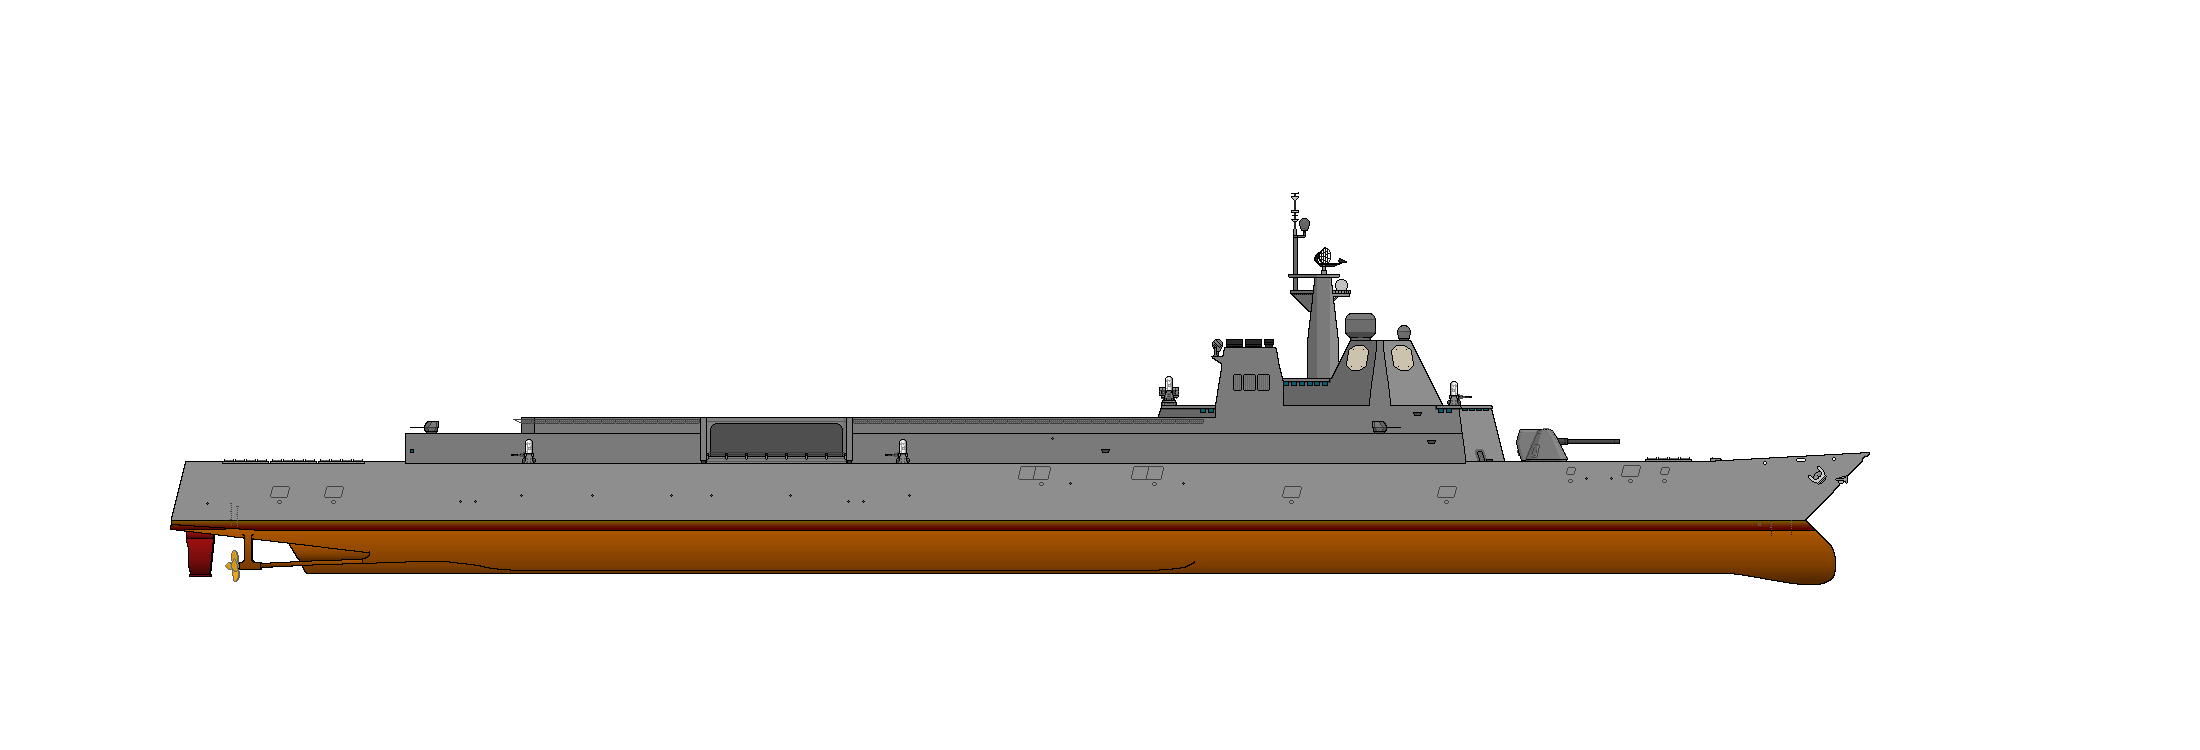
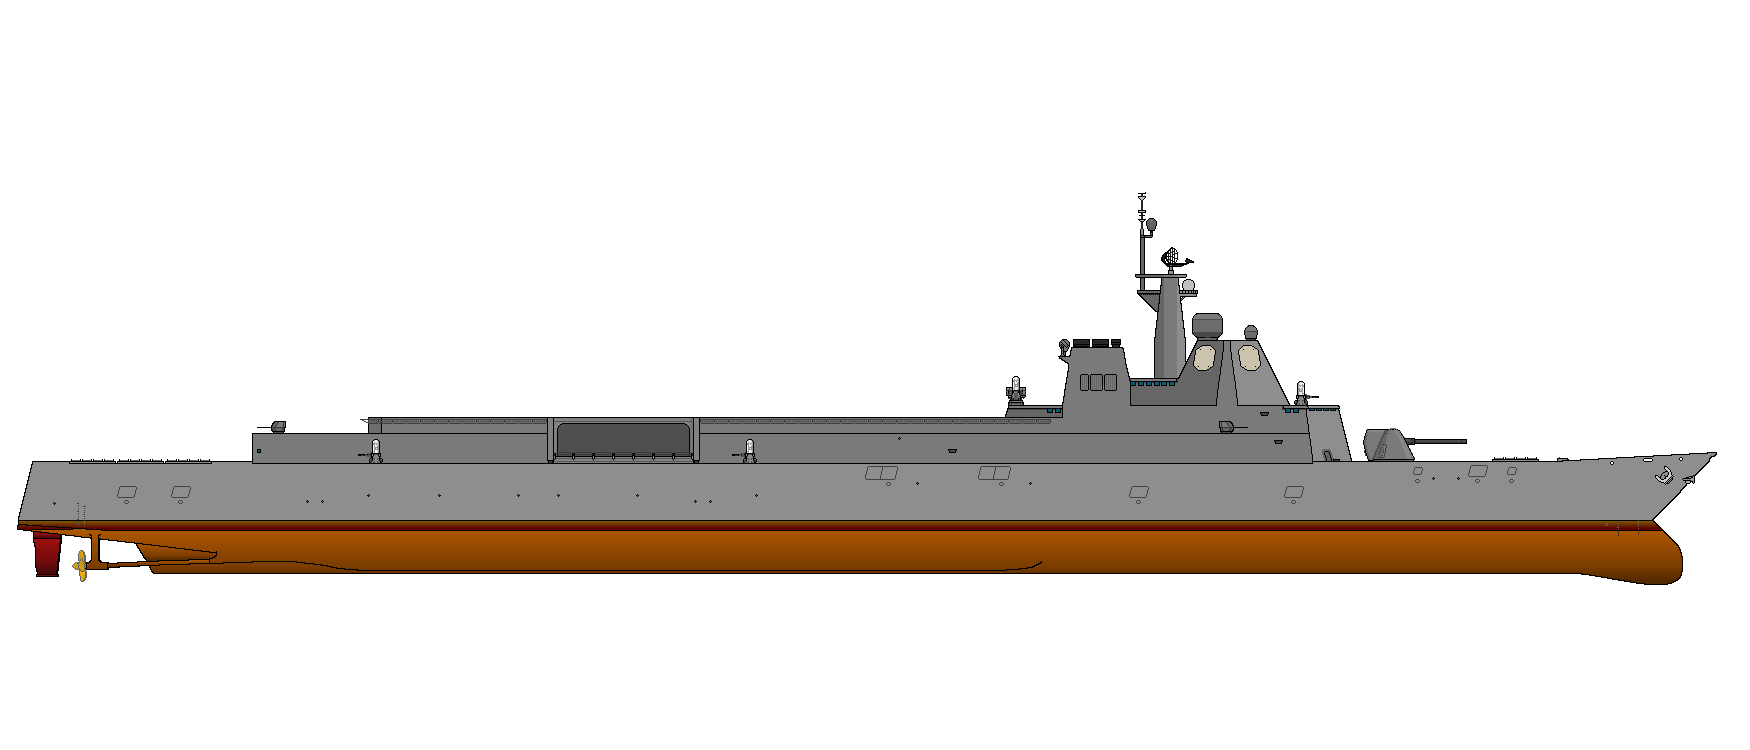
Add files via upload

diff --git a/MWT_NEQ_Ship.html b/MWT_NEQ_Ship.html
@@ -144,6 +144,95 @@ function includeHTML() {
 
 <Table width=1820 cellpadding=0 border=1 cellspacing=0>
 <TR>
+	<TH style="width:1820px; color:#EFEFEF; font-size:22px; font-family:Calibri;" colspan=12>Battles-class</TH>
+</TR>
+<TR>
+	<TH style="width:1820px; background-color:#00007F;" colspan=12><img src=NEQ_Ship_Battles.png></TH>
+</TR>
+<TR>
+	<TD style="width:225px;; color:#EFEFEF; font-size:16px; font-family:Courier;"><b>CLASS NAME:</TD>
+	<TD style="width:400px;; color:#F0F0F0; font-size:14px; font-family:Courier;">Battles-class</TD>
+
+	<TD style="width:225px;; color:#EFEFEF; font-size:16px; font-family:Courier;"><b>SHIPS IN CLASS:</TD>
+	<TD style="width:1250px; color:#F0F0F0; font-size:14px; font-family:Courier;" colspan=5>Canternooga Springs (LHVA-11), Carousel Island (LHVA-12) (mothballed, 2042 C.S.), Gloom Mountain (LHVA-14) (cancelled at 65% completion)</TD>
+</TR>
+<TR>
+	<TD style="width:225px;; color:#EFEFEF; font-size:16px; font-family:Courier;"><b>SHIP TYPE:</TD>
+    <TD style="width:400px;; color:#F0F0F0; font-size:14px; font-family:Courier;">Landing ship, Helicopter/VTOL, Assault</TD>
+
+	<TD style="width:225px;; color:#EFEFEF; font-size:16px; font-family:Courier;"><b>ENGINES:</TD>
+	<TD style="width:400px;; color:#F0F0F0; font-size:14px; font-family:Courier;">12 Canterlogic Crystal Fusion Engines, 4 Bathhurst Gas Turbines</TD>
+
+	<TD style="width:225px;; color:#EFEFEF; font-size:16px; font-family:Courier;"><b>SCREWS:</TD>
+	<TD style="width:400px;; color:#F0F0F0; font-size:14px; font-family:Courier;">4</TD>
+
+	<TD style="width:225px;; color:#EFEFEF; font-size:16px; font-family:Courier;"><b>SPEED:</TD>
+	<TD style="width:400px;; color:#F0F0F0; font-size:14px; font-family:Courier;">36kts</TD>
+
+</TR>
+<TR>
+	<TD style="width:225px;; color:#EFEFEF; font-size:16px; font-family:Courier;"><b>GUN ARMAMENT:</TD>
+	<TD style="width:400px;; color:#F0F0F0; font-size:14px; font-family:Courier;">3 x 1 127mm Defensive Gun System</TD>
+
+	<TD style="width:225px;; color:#EFEFEF; font-size:16px; font-family:Courier;"><b>MISSILE ARMAMENT:</TD>
+	<TD style="width:400px;; color:#F0F0F0; font-size:14px; font-family:Courier;"><I>None</TD>
+
+	<TD style="width:225px;; color:#EFEFEF; font-size:16px; font-family:Courier;"><b>DEFENSIVE ARMAMENT:</TD>
+	<TD style="width:400px;; color:#F0F0F0; font-size:14px; font-family:Courier;">4 x 25mm Phalanx CIWS<BR>8 x RIM-16 SeaRAM<BR>2 x ODIN Laser Defense System</TD>
+
+	<TD style="width:225px;; color:#EFEFEF; font-size:16px; font-family:Courier;"><b>MACHINE GUNS:</TD>
+	<TD style="width:400px;; color:#F0F0F0; font-size:14px; font-family:Courier;">4 x 1 57mm Brushfire</TD>
+</TR>
+<TR>
+	<TD style="width:225px;; color:#EFEFEF; font-size:16px; font-family:Courier;"><b>ACTIVE COUNTERMEASURES:</TD>
+	<TD style="width:400px;; color:#F0F0F0; font-size:14px; font-family:Courier;">5 x Chaff Dispensers, 4 x Heat-Seeking Countermeasure Dispensers</TD>
+
+	<TD style="width:225px;; color:#EFEFEF; font-size:16px; font-family:Courier;"><b>PASSIVE COUNTERMEASURES:</TD>
+	<TD style="width:400px;; color:#F0F0F0; font-size:14px; font-family:Courier;">2 x Radio-Intercept Beam Static Generators, 1 x ECCM Coordinator</TD>
+
+	<TD style="width:225px;; color:#EFEFEF; font-size:16px; font-family:Courier;"><b>AIRCRAFT COMPLIMENT:</TD>
+	<TD style="width:400px;; color:#F0F0F0; font-size:14px; font-family:Courier;">Hangar Deck for up to 24 VTOL or Helicopters</TD>
+
+	<TD style="width:225px;; color:#EFEFEF; font-size:16px; font-family:Courier;"><b>FLIGHT CREW:</TD>
+	<TD style="width:400px;; color:#F0F0F0; font-size:14px; font-family:Courier;"><I>Varies</TD>
+
+</TR>
+<TR>
+	<TD style="width:225px;; color:#EFEFEF; font-size:16px; font-family:Courier;"><b>OVERALL LENGTH:</TD>
+	<TD style="width:400px;; color:#F0F0F0; font-size:14px; font-family:Courier;">160 meters/525 feet</TD>
+
+	<TD style="width:225px;; color:#EFEFEF; font-size:16px; font-family:Courier;"><b>NUMBER OF DECKS:</TD>
+	<TD style="width:400px;; color:#F0F0F0; font-size:14px; font-family:Courier;">1 Welldeck, 1 Hangar Deck, 4 Belowdeck, 4 Superstructure</TD>
+
+	<TD style="width:225px;; color:#EFEFEF; font-size:16px; font-family:Courier;"><b>BEAM:</TD>
+	<TD style="width:400px;; color:#F0F0F0; font-size:14px; font-family:Courier;">35 meters/115 feet</TD>
+
+	<TD style="width:225px;; color:#EFEFEF; font-size:16px; font-family:Courier;"><b>DRAFT:</TD>
+	<TD style="width:400px;; color:#F0F0F0; font-size:14px; font-family:Courier;">9.2 meters/30 feet</TD>
+</TR>
+<TR>
+	<TD style="width:225px;; color:#EFEFEF; font-size:16px; font-family:Courier;"><b>TRANSIT RANGE:</TD>
+	<TD style="width:400px;; color:#F0F0F0; font-size:14px; font-family:Courier;">3200 nmi</TD>
+
+	<TD style="width:225px;; color:#EFEFEF; font-size:16px; font-family:Courier;"><b>TOTAL CREW:</TD>
+	<TD style="width:400px;; color:#F0F0F0; font-size:14px; font-family:Courier;">850</TD>
+
+	<TD style="width:225px;; color:#EFEFEF; font-size:16px; font-family:Courier;"><b>MARINE DETACHMENT:</TD>
+	<TD style="width:400px;; color:#F0F0F0; font-size:14px; font-family:Courier;">120+</TD>
+
+	<TD style="width:225px;; color:#EFEFEF; font-size:16px; font-family:Courier;"><b>NUMBER OF BOATS:</TD>
+	<TD style="width:400px;; color:#F0F0F0; font-size:14px; font-family:Courier;">Welldeck carries 2 LCAC & 12 Boats</TD>
+</TR>
+
+<TR>
+	<TD width=1820 colspan=12><center><table width=1810><TR><TD>Not an Aircraft Carrier, but a ship that can substitute for part of the functions of one, the <I>Battles-class</i> LHVA's can embark purely helicopters for landing and raiding operations, VTOL or STOVL ground/ship aircraft for maritime strike operations, or VTOL/STOVL air superiority aircraft for fleet defense. Unlike a true carrier, however, it cannot do all of these things at once - it can only perform one role at a time. <I>HMS Canternooga Springs</i> was intended to be purely a landing assault ship, but was pressed into many roles over the years, and its sisters are all out of service.</TD></TR></Table></TD>
+</TR>
+</Table>
+
+<HR style="width:800px;">
+
+<Table width=1820 cellpadding=0 border=1 cellspacing=0>
+<TR>
 	<TH style="width:1820px; color:#EFEFEF; font-size:22px; font-family:Calibri;" colspan=12>Legends-class</TH>
 </TR>
 <TR>
@@ -181,7 +270,7 @@ function includeHTML() {
 	<TD style="width:400px;; color:#F0F0F0; font-size:14px; font-family:Courier;">7 x 25mm Phalanx CIWS<BR>3 x RIM-16 SeaRAM<BR>5 x ODIN Laser Defense System</TD>
 
 	<TD style="width:225px;; color:#EFEFEF; font-size:16px; font-family:Courier;"><b>MACHINE GUNS:</TD>
-	<TD style="width:400px;; color:#F0F0F0; font-size:14px; font-family:Courier;">4 x 1 40mm Brushfire</TD>
+	<TD style="width:400px;; color:#F0F0F0; font-size:14px; font-family:Courier;">4 x 1 57mm Brushfire</TD>
 </TR>
 <TR>
 	<TD style="width:225px;; color:#EFEFEF; font-size:16px; font-family:Courier;"><b>ACTIVE COUNTERMEASURES:</TD>
@@ -272,7 +361,7 @@ function includeHTML() {
 	<TD style="width:400px;; color:#F0F0F0; font-size:14px; font-family:Courier;">3 x 25mm Phalanx CIWS<BR>1 x RIM-16 SeaRAM</TD>
 
 	<TD style="width:225px;; color:#EFEFEF; font-size:16px; font-family:Courier;"><b>MACHINE GUNS:</TD>
-	<TD style="width:400px;; color:#F0F0F0; font-size:14px; font-family:Courier;">4 x 1 40mm Brushfire</TD>
+	<TD style="width:400px;; color:#F0F0F0; font-size:14px; font-family:Courier;">4 x 1 57mm Brushfire</TD>
 </TR>
 <TR>
 	<TD style="width:225px;; color:#EFEFEF; font-size:16px; font-family:Courier;"><b>ACTIVE COUNTERMEASURES:</TD>
@@ -364,7 +453,7 @@ function includeHTML() {
 	<TD style="width:400px;; color:#F0F0F0; font-size:14px; font-family:Courier;">4 x 25mm Phalanx CIWS<BR>1 x RIM-16 SeaRAM</TD>
 
 	<TD style="width:225px;; color:#EFEFEF; font-size:16px; font-family:Courier;"><b>MACHINE GUNS:</TD>
-	<TD style="width:400px;; color:#F0F0F0; font-size:14px; font-family:Courier;">6 x 1 40mm Brushfire</TD>
+	<TD style="width:400px;; color:#F0F0F0; font-size:14px; font-family:Courier;">6 x 1 57mm Brushfire</TD>
 </TR>
 <TR>
 	<TD style="width:225px;; color:#EFEFEF; font-size:16px; font-family:Courier;"><b>ACTIVE COUNTERMEASURES:</TD>
@@ -455,7 +544,7 @@ function includeHTML() {
 	<TD style="width:400px;; color:#F0F0F0; font-size:14px; font-family:Courier;">4 x 25mm Phalanx CIWS<BR>2 x ODIN Laser Defense System</TD>
 
 	<TD style="width:225px;; color:#EFEFEF; font-size:16px; font-family:Courier;"><b>MACHINE GUNS:</TD>
-	<TD style="width:400px;; color:#F0F0F0; font-size:14px; font-family:Courier;">2 x 1 40mm Brushfire</TD>
+	<TD style="width:400px;; color:#F0F0F0; font-size:14px; font-family:Courier;">2 x 1 57mm Brushfire</TD>
 </TR>
 <TR>
 	<TD style="width:225px;; color:#EFEFEF; font-size:16px; font-family:Courier;"><b>ACTIVE COUNTERMEASURES:</TD>
@@ -547,7 +636,7 @@ function includeHTML() {
 	<TD style="width:400px;; color:#F0F0F0; font-size:14px; font-family:Courier;">2 x 25mm Phalanx CIWS<BR>2 x RIM-16 SeaRAM<BR>2 x ODIN Laser Defense System</TD>
 
 	<TD style="width:225px;; color:#EFEFEF; font-size:16px; font-family:Courier;"><b>MACHINE GUNS:</TD>
-	<TD style="width:400px;; color:#F0F0F0; font-size:14px; font-family:Courier;">2 x 1 40mm Brushfire</TD>
+	<TD style="width:400px;; color:#F0F0F0; font-size:14px; font-family:Courier;">2 x 1 57mm Brushfire</TD>
 </TR>
 <TR>
 	<TD style="width:225px;; color:#EFEFEF; font-size:16px; font-family:Courier;"><b>ACTIVE COUNTERMEASURES:</TD>
